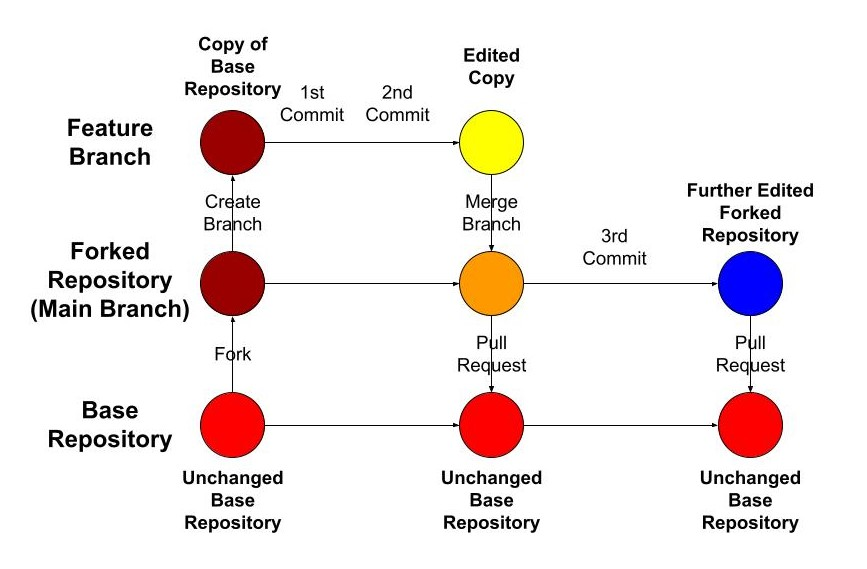
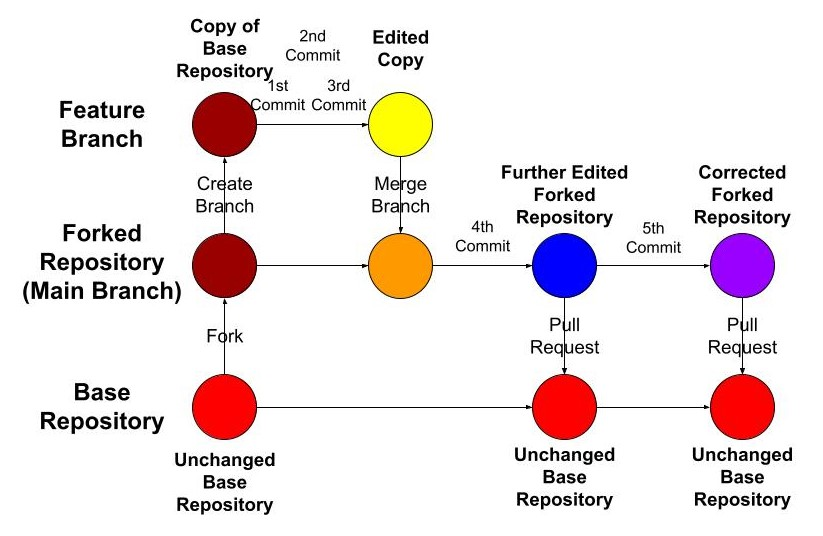
updated roundtrip diagram and added final commit log

diff --git a/labreports/LAB_andrewcoldsmith.md b/labreports/LAB_andrewcoldsmith.md
@@ -41,21 +41,12 @@ Students at Messiah University often have no gaps between classes during meal ti
 #### Log 1:
 ```
 ea81896 (HEAD -> labreport, origin/labreport) andrewcoldsmith commit @trevordbunch
-50d40f8 (origin/main, origin/HEAD, main) Update references to main branch
-ef962b1 Fix links in resource area
-237b52e Update Instructions for template file
-dafaf5e Merge pull request #2 from NedacNostrebor/patch-1
-6293806 Merge pull request #1 from mcjo163/main
-7482f04 Typo in lab instructions
-3080719 typo in readme
-33efb41 formatted template
-fd13d03 initial draft
-ad87871 Create License
 ```
 
 #### Log 2:
 ```
-
+b49554a (HEAD -> main, labreport) overview and requirements completed
+73f455c completed overview and requirements
 ```
 
 ### A.3 Branch Repository
